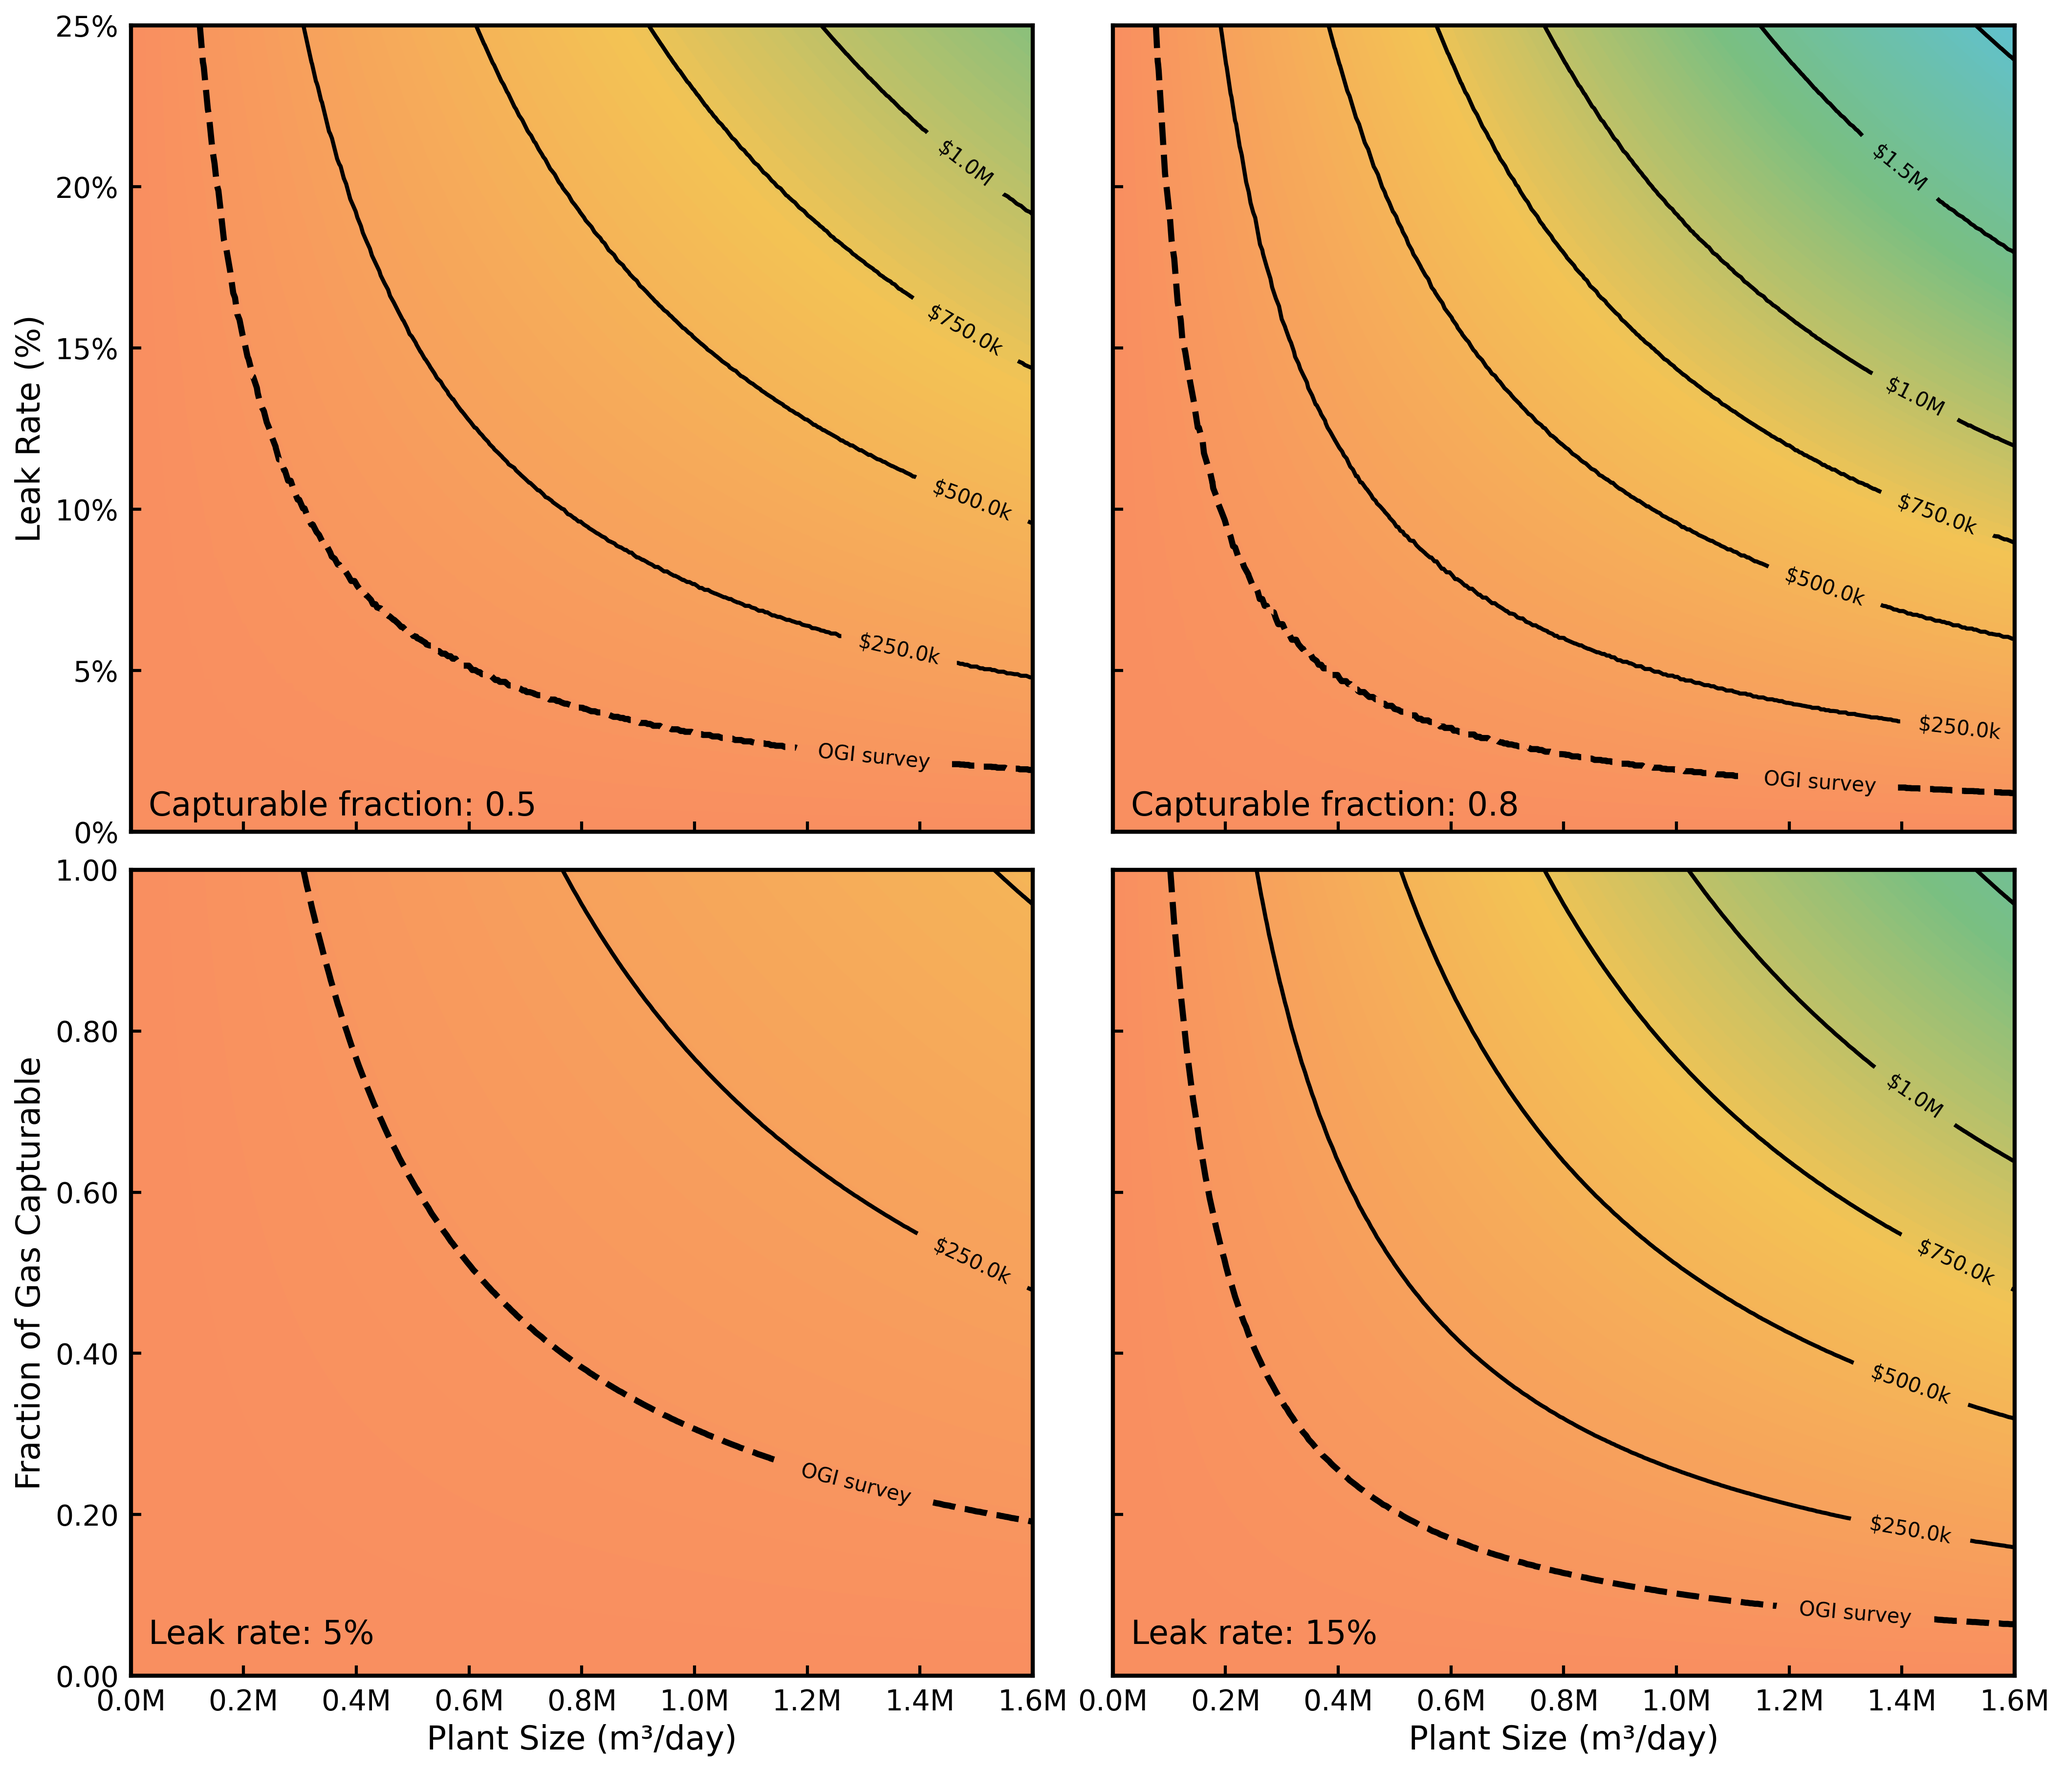
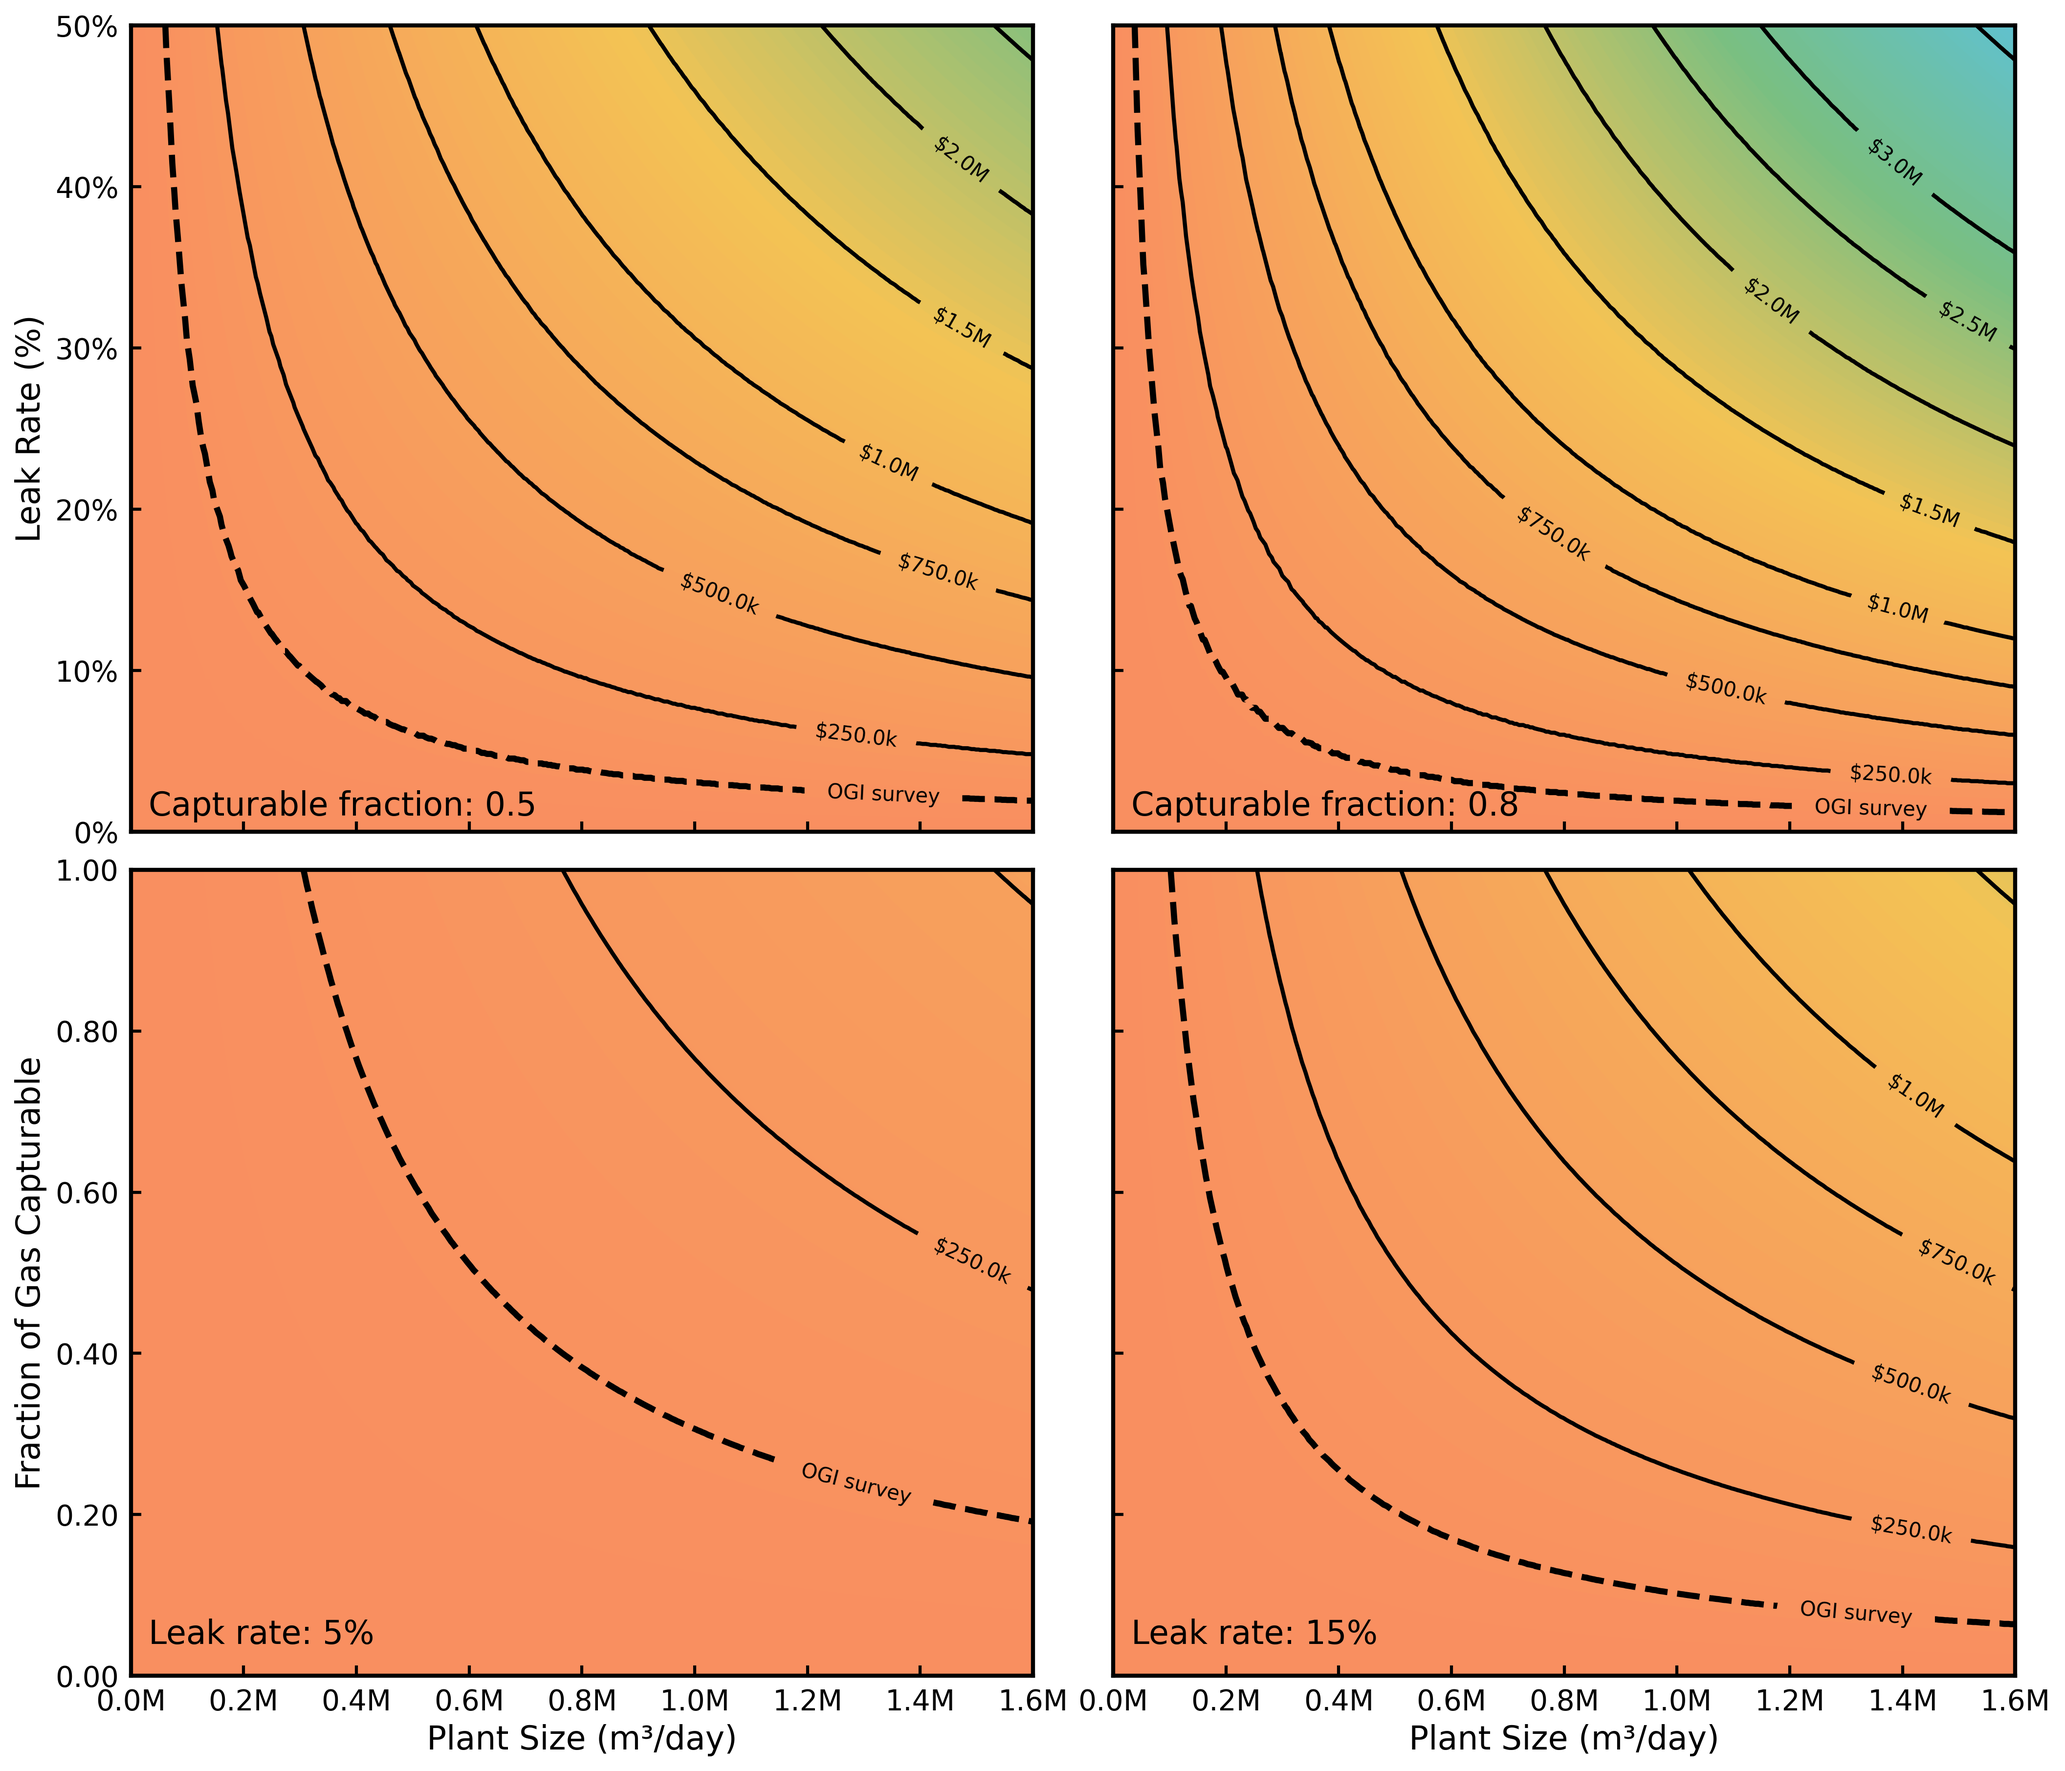
Caclulations for economics discussion in paper

diff --git a/Paper_Calculations.py b/Paper_Calculations.py
@@ -1,0 +1,67 @@
+#%% 
+#Setup
+import pandas as pd 
+import numpy as np
+import matplotlib.pyplot as plt
+import seaborn as sns
+import pathlib
+from a_my_utilities import set_chini_dataset, calc_biogas_production_rate, load_ch4_emissions_with_ad_only, calculate_production_normalized_ch4, calc_annual_revenue
+from a_my_utilities import solve_leak_rate_for_value
+
+import matplotlib.ticker as mtick
+
+chini_data = pd.read_csv(pathlib.Path("02_clean_data", "chini_cleaned.csv"))  # or csv
+
+set_chini_dataset(
+    chini_data,
+    x_col="flow_m3_per_day",
+    y_col="methane_gen_kgh",
+    drop_negative=True
+)
+
+
+
+measurement_data_ad = calculate_production_normalized_ch4(
+    load_data_func=load_ch4_emissions_with_ad_only,
+    calc_biogas_func=calc_biogas_production_rate
+)
+
+# Filter measurement data to ensure values are > 0 and not NaN
+measurement_data_ad = measurement_data_ad[
+    (measurement_data_ad['biogas_production_used_kgCH4_per_hr'] > 0) &
+    (measurement_data_ad['production_normalized_CH4_percent']> 0)]
+
+# %%
+
+########## Section: Economic opportunities from leak repairs #######
+
+measurement_data_has_biogas = measurement_data_ad[measurement_data_ad['reported_biogas_production']=='yes']
+# Range of production normalized CH4 leaks (percent)
+print(f'Average leak rate for facilities with reported biogas production: {measurement_data_has_biogas["production_normalized_CH4_percent"].mean():.2%}')
+print(f'Range of leak rates for facilities with reported biogas production: {measurement_data_has_biogas["production_normalized_CH4_percent"].min():.2%} - {measurement_data_has_biogas["production_normalized_CH4_percent"].max():.2%} ')
+
+# Mean and SD of production normalized CH4 leak rates (percent): 
+mean_leak_rate = measurement_data_has_biogas['production_normalized_CH4_percent'].mean() 
+median_leak_rate = measurement_data_has_biogas['production_normalized_CH4_percent'].median()
+std_leak_rate = measurement_data_has_biogas['production_normalized_CH4_percent'].std()
+print(f'Median leak rate: {median_leak_rate:.2%}, Standard deviation: {std_leak_rate:.2%}')
+      # %%
+# What leak fraction is needed to offset OGI costs for a "large" facility of 0.5 Mm3/day? 
+
+
+target_annual = 100_000  # USD/year
+plant_size = 500_000  # m³/day
+leak_fraction_capturable = 0.8
+engine_efficiency = 0.35
+electricity_price = 0.08  # USD/kWh
+
+required_leak_rate = solve_leak_rate_for_value(
+    target_annual, 
+    plant_size, 
+    leak_fraction_capturable, 
+    engine_efficiency, 
+    electricity_price
+)
+
+print(f"Required leak rate for a plant that is {plant_size/1e6:.1f}Mm3/day: {required_leak_rate:.3%}")
+# %%

diff --git a/a_my_utilities.py b/a_my_utilities.py
@@ -419,15 +419,6 @@ def calc_leak_value(plant_size, leak_rate, leak_fraction_capturable, engine_effi
 
     methane_leakage_MJ_per_hr = methane_leakage_kg_per_hr * mj_per_kg_CH4() # Convert to MJ per hour
     # print(f'Methane leakage: {methane_leakage_MJ_per_hr} MJ/hr')
-
-    # # biogas_production_MJ_per_day = plant_size * biogas_production_rate
-    # # # print(f'Biogas production rate: {biogas_production_MJ_per_day} MJ/day')
-
-    # methane_leakage_MJ_per_hr = biogas_production_MJ_per_day * leak_rate * (1/24) # Convert to per hour
-    # # print(f'Methane leakage: {methane_leakage_MJ_per_hr} MJ/hr')
-   
-    # methane_leakage_kg_per_hr = methane_leakage_MJ_per_hr * (1/mj_per_kg_CH4()) # Convert to kg CH4 per hour
-    # # print(f'Methane leakage: {methane_leakage_kg_per_hr} kg CH4/hr')
    
     electricity_generation_potential_kWh_per_hour = methane_leakage_MJ_per_hr *\
           leak_fraction_capturable * (1/mj_per_kWh()) * engine_efficiency  # Convert to kWh per hour and multiply by engine efficiency
@@ -491,3 +482,31 @@ def calc_annual_revenue(plant_size, leak_rate, leak_fraction_capturable, engine_
     annual_revenue = leak_value * 24 * 365  # Annual revenue in USD
     
     return annual_revenue
+
+
+
+def solve_leak_rate_for_value(target_value_usd_per_year, plant_size, leak_fraction_capturable, engine_efficiency, electricity_price_per_kWh):
+    """
+    Solve for the methane leak rate (fraction of biogas lost) required 
+    to reach a target monetary value of leaks.
+    """
+
+    # Step 1: Convert target annual value to $/hr
+    target_value_usd_per_hour = target_value_usd_per_year / (24 * 365)
+
+    # Step 2: Biogas production in kg CH4/hr
+    biogas_prod_kg_hr = calc_biogas_production_rate(plant_size, method="chini_data")
+
+    # Step 3: Conversion factor (USD/hr per unit leak_rate)
+    conversion_factor = (
+        mj_per_kg_CH4()
+        * leak_fraction_capturable
+        * (1 / mj_per_kWh())
+        * engine_efficiency
+        * electricity_price_per_kWh
+    )
+
+    # Step 4: Solve for leak rate
+    leak_rate = target_value_usd_per_hour / (biogas_prod_kg_hr * conversion_factor)
+
+    return leak_rate

diff --git a/e_compare_biogas_methods.py b/e_compare_biogas_methods.py
@@ -165,3 +165,49 @@ def plot_parity_chini_vs_tarallo_on_measurements(
 # Example usage (optional)
 plot_parity_chini_vs_tarallo_on_measurements()
 
+
+
+#%%
+
+import pandas as pd
+import pathlib
+import numpy as np
+import matplotlib.pyplot as plt
+import seaborn as sns
+from a_my_utilities import set_chini_dataset, calc_biogas_production_rate, load_ch4_emissions_data
+
+chini_data = pd.read_csv(pathlib.Path("02_clean_data", "chini_cleaned.csv"))  # or csv
+
+set_chini_dataset(
+    chini_data,
+    x_col="flow_m3_per_day",
+    y_col="methane_gen_kgh",
+    drop_negative=True
+)
+# Load the measurement dataset 
+
+measurement_data = load_ch4_emissions_data()
+
+# Calclate biogas production using both methods
+measurement_data['biogas_chini']   = calc_biogas_production_rate(measurement_data['flow_m3_per_day'], "chini_data")   # kg CH4/h
+measurement_data['biogas_tarallo'] = calc_biogas_production_rate(measurement_data['flow_m3_per_day'], "tarallo_model") # kg CH4/h
+
+
+# Plot biogas production 
+# plot measurement_data['biogas_chini'] vs measurement_data['biogas_tarallo']
+
+sns.set_style("whitegrid")
+plt.figure(figsize=(8, 6))
+plt.scatter(measurement_data['biogas_tarallo'], measurement_data['biogas_chini'])
+
+plt.xlim(0, max(measurement_data['biogas_chini'].max(), measurement_data['biogas_tarallo'].max()) * 1.05)
+plt.ylim(0, max(measurement_data['biogas_chini'].max(), measurement_data['biogas_tarallo'].max()) * 1.05)
+plt.xlabel('Tarallo Biogas Production Estimate (kg/h)')
+plt.ylabel('Chini Biogas Production Estimate (kg/h)')
+plt.title('Compare Chini and Tarallo Biogas Production Estimates for Facilities with Measurement Data')
+plt.legend()
+plt.grid(True, linestyle="--", linewidth=0.5, alpha=0.7)
+plt.tight_layout()
+plt.show()
+
+# %%

diff --git a/Fig4_economic_analysis.py b/Fig4_economic_analysis.py
@@ -16,7 +16,7 @@ elec_price = 0.08  # $/kWh fixed for all panels
 max_plant_size_m3_per_day=1_600_000
 
 vmin = 0
-vmax = 2_100_000
+vmax = 4_200_000
 levels_fill = np.linspace(vmin, vmax, 100)  
 # levels_line = np.linspace(vmin, vmax, 10)    # default evenly spaced lines
 levels_line = [250_000, 500_000, 750_000, 1_000_000, 1_500_000, 2_000_000, 2_500_000, 3_000_000, 4_000_000, 5_000_000]
@@ -41,6 +41,7 @@ plot_methane_savings_vary_leak_rate(
     electricity_price_per_kWh=elec_price,
     ogi_cost=100000,
     plant_sizes_m3_per_day_range=(0, max_plant_size_m3_per_day),
+    leak_rates=np.linspace(0, 0.50, 200),
     engine_efficiency=0.45,
     fig=fig,
     ax=axes[0, 0],
@@ -61,6 +62,7 @@ params = {"leak_fraction_capturable": 0.8, "electricity_price_per_kWh": elec_pri
 plot_methane_savings_vary_leak_rate(
     leak_fraction_capturable=0.8,
     electricity_price_per_kWh=elec_price,
+    leak_rates=np.linspace(0, 0.50, 200),
     engine_efficiency=0.45,
     plant_sizes_m3_per_day_range=(0, max_plant_size_m3_per_day),
     ogi_cost=100000,
